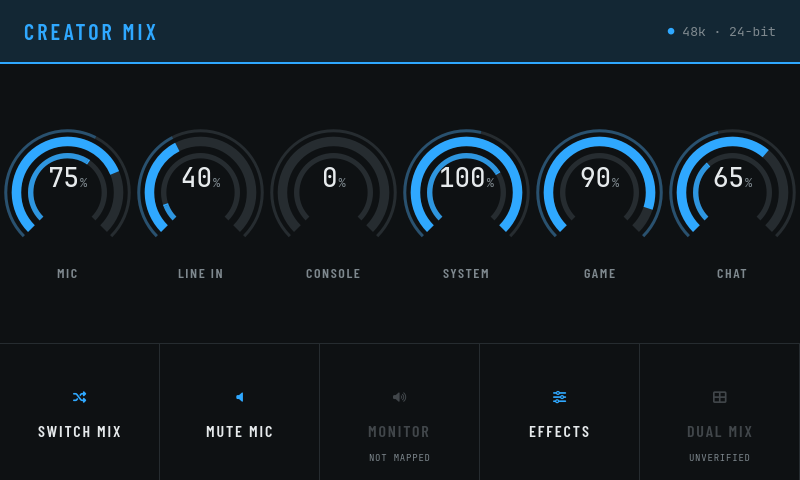
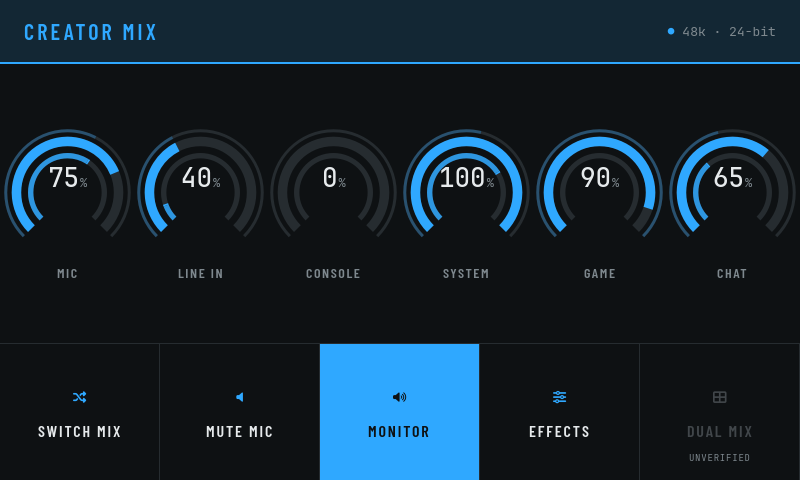
Monitor was never a missing register; it is the mic's creator-mix level
Captured from the vendor software, both directions: its monitor widget writes
0x27 -- the creator block's base, which is the Mic track -- to 0x14 for on and
0x00 for off, and sends 0x22 = 0x02 alongside, which is identical in both and so
is not the toggle.

That is the whole feature. Monitoring is whether the microphone is audible in the
mix you hear; turning it off leaves the audience block at 0x2e untouched, so the
stream still hears you. Which is what monitoring has always meant, and what the
deck's owner said the MIC knob push does -- the widget takes the same route.

So the driver could already do this and nobody knew. The panel's Monitor tile
stops being inert: it lights when the microphone is audible and toggles. Off
remembers the level it silenced so that on restores what was there rather than
coming back at full, which is the wrong way to be wrong with a microphone.

Two tiles were reserved-but-inert; one is left. Dual mix still is, because 0x21
also selects which rings light and which of the two it does is unsettled.

Changed region(s): [[0.375, 0.7188, 0.625, 1.0]]

diff --git a/src/gui/ScreenUI.qml b/src/gui/ScreenUI.qml
@@ -146,7 +146,8 @@ Rectangle {
             objectName: "monitorTile"
             width: root.width / 5; height: parent.height
             glyph: Theme.iconMonitor; label: "Monitor"; accent: root.accent
-            pending: true
+            active: ax310Device ? ax310Device.micMonitor : false
+            onActivated: if (ax310Device) ax310Device.setMicMonitor(!ax310Device.micMonitor)
         }
         ActionTile {
             // Named so a test can ask where this tile actually is.

diff --git a/src/app/DeviceBridge.hpp b/src/app/DeviceBridge.hpp
@@ -39,6 +39,7 @@ class DeviceBridge final: public QObject, public IDeviceListener
     Q_PROPERTY(int selectedMix READ selectedMix NOTIFY mixChanged)
     Q_PROPERTY(bool panelShowsEffects READ panelShowsEffects WRITE setPanelShowsEffects NOTIFY
                    panelShowsEffectsChanged)
+    Q_PROPERTY(bool micMonitor READ micMonitor NOTIFY levelChanged)
 
   public:
     /// Builds the seams the driver needs and injects them: a real USB transport,
@@ -147,6 +148,27 @@ class DeviceBridge final: public QObject, public IDeviceListener
 
     /// @param showing Whether the panel should show the effects.
     void setPanelShowsEffects(bool showing);
+
+    /// Whether the microphone is audible in the creator mix.
+    ///
+    /// That is all "monitor" is on this deck. Captured from the vendor software:
+    /// its monitor widget writes the microphone's level in the creator mix --
+    /// `0x27`, which is that block's base -- and nothing else. Turning it off
+    /// silences you in your own headphones and leaves the audience mix alone, so
+    /// the stream still hears you, which is exactly what monitoring means.
+    ///
+    /// There is no separate register, and there never was one to find.
+    ///
+    /// @return Whether the microphone's creator-mix level is above zero.
+    [[nodiscard]] bool micMonitor() const;
+
+    /// Turns monitoring on or off.
+    ///
+    /// Off remembers the level it silenced, so on restores what was there rather
+    /// than guessing at full.
+    ///
+    /// @param enabled Whether the microphone should be audible in the creator mix.
+    Q_INVOKABLE void setMicMonitor(bool enabled);
 
     /// Pushes one encoded frame to the deck's screen.
     /// @param jpeg The encoded frame.
@@ -260,6 +282,10 @@ class DeviceBridge final: public QObject, public IDeviceListener
 
     /// Which page the panel is on, shared by every view of it.
     bool _panelShowsEffects = false;
+
+    /// The microphone's creator-mix level before monitoring was turned off, so
+    /// turning it back on restores what was there.
+    int _monitorRestoreLevel = 100;
 
     std::atomic<bool> _isRunning { false };
     std::thread _worker;

diff --git a/src/app/GuiRender_test.cpp b/src/app/GuiRender_test.cpp
@@ -740,3 +740,48 @@ TEST_CASE("the desktop's preview of the deck can be operated", "[gui][render][to
     CHECK(harness.bridge.selectedMix() == 1);
 }
 #endif
+
+TEST_CASE("monitoring is the microphone's level in the creator mix", "[gui][monitor]")
+{
+    // Captured from the vendor software: its monitor widget writes 0x27 -- the
+    // creator block's base, which is the Mic track -- and nothing else. There is
+    // no separate register, so this is the whole feature.
+    RenderHarness harness;
+    harness.connectWithLevels({ 15, 8, 0, 20, 18, 13 }, { 12, 8, 0, 11, 20, 9 });
+
+    REQUIRE(harness.bridge.micMonitor());
+    REQUIRE(harness.bridge.levelPercent(0, 0) == 75);
+
+    harness.bridge.setMicMonitor(false);
+    CHECK_FALSE(harness.bridge.micMonitor());
+    CHECK(harness.bridge.levelPercent(0, 0) == 0);
+
+    // The audience still hears you: turning your own monitoring off is not a mute.
+    CHECK(harness.bridge.levelPercent(1, 0) == 60);
+
+    // And it comes back where it was, not at full.
+    harness.bridge.setMicMonitor(true);
+    CHECK(harness.bridge.micMonitor());
+    CHECK(harness.bridge.levelPercent(0, 0) == 75);
+}
+
+TEST_CASE("the panel's Monitor tile is operable now", "[gui][render][monitor]")
+{
+    RenderHarness harness;
+    harness.connectWithLevels({ 15, 8, 0, 20, 18, 13 }, { 12, 8, 0, 11, 20, 9 });
+
+    QQuickView view;
+    view.setResizeMode(QQuickView::SizeRootObjectToView);
+    view.rootContext()->setContextProperty("ax310Device", &harness.bridge);
+    view.resize(PanelWidth, PanelHeight);
+    view.setSource(QUrl("qrc:/qt/qml/AX310/App/gui/ScreenUI.qml"));
+    REQUIRE(view.status() == QQuickView::Ready);
+    view.show();
+
+    // It shipped inert, with "not mapped" under it, because the register was
+    // thought to be missing. It never was.
+    auto* const tile = view.rootObject()->findChild<QQuickItem*>("monitorTile");
+    REQUIRE(tile != nullptr);
+    CHECK_FALSE(tile->property("pending").toBool());
+    CHECK(tile->property("active").toBool());
+}

diff --git a/src/app/DeviceBridge.cpp b/src/app/DeviceBridge.cpp
@@ -293,6 +293,32 @@ int DeviceBridge::selectedMix() const noexcept
     return static_cast<int>(indexOf(_mix));
 }
 
+bool DeviceBridge::micMonitor() const
+{
+    return levelPercent(static_cast<int>(indexOf(MixId::Creator)),
+                        static_cast<int>(indexOf(KnobId::Mic)))
+           > 0;
+}
+
+void DeviceBridge::setMicMonitor(bool enabled)
+{
+    auto const creatorMix = static_cast<int>(indexOf(MixId::Creator));
+    auto const micTrack = static_cast<int>(indexOf(KnobId::Mic));
+    auto const current = levelPercent(creatorMix, micTrack);
+
+    if (!enabled)
+    {
+        // Remember what is being silenced. Restoring to full instead would be
+        // louder than what the person had, which is the wrong way to be wrong.
+        if (current > 0)
+            _monitorRestoreLevel = current;
+        setLevel(creatorMix, micTrack, 0);
+        return;
+    }
+
+    setLevel(creatorMix, micTrack, _monitorRestoreLevel > 0 ? _monitorRestoreLevel : 100);
+}
+
 bool DeviceBridge::panelShowsEffects() const noexcept
 {
     return _panelShowsEffects;

diff --git a/README.md b/README.md
@@ -60,12 +60,17 @@ per track without switching; the inner arc is the live meter with a peak-hold ti
 Blue and orange are the deck's own LED colours for the creator and audience mixes —
 they say which mix you are in, rather than being decoration.
 
-Two tiles are present but inert, and say so rather than looking operable.
-**Monitor**'s register has not been found. **Dual mix**'s has — `0x21` takes
-`0x80` for Single and `0x00` for Dual — but the same address also selects which
-knob rings light, and which of the two it is doing has never been settled on the
-hardware. Holding both slots means the row is not re-cut when they are, so the
-muscle memory built now stays correct.
+One tile is present but inert, and says so rather than looking operable. **Dual
+mix**'s register is known — `0x21` takes `0x80` for Single and `0x00` for Dual —
+but the same address also selects which knob rings light, and which of the two it
+is doing has never been settled on the hardware. Holding the slot means the row is
+not re-cut when it is.
+
+**Monitor** was inert too, until a capture showed there was never a register to
+find: the vendor's monitor widget writes the microphone's level in the creator
+mix and nothing else. Turning it off silences you in your own headphones and
+leaves the audience mix alone, so the stream still hears you — which is exactly
+what monitoring means, and something the driver could already do.
 
 The effects page is built from the driver's parameter table, not written out in
 QML, so a parameter located later becomes one row in `protocol::Parameters` and
@@ -189,7 +194,7 @@ the Qt-free rule: `src/ax310` links hidapi and nothing else.
 
 ## Testing
 
-146 tests, no hardware required.
+151 tests, no hardware required.
 
 Driver tests run against a scripted `FakeHidTransport`. The **rendering tests**
 drive real QML through the software scene graph with the offscreen platform, so

diff --git a/docs/todo.md b/docs/todo.md
@@ -145,14 +145,12 @@ captures name them.
   what hid it was a decoder that read only the first pair — the microphone, which
   hears whatever is played into the room and so appeared to answer for every
   track in turn.
-- **The mic monitoring toggle — and whether it exists as a command.** The deck's
-  owner reports that Creator Central's monitor on/off is a physical click of the
-  MIC knob, which takes the mic level to 0 and back; that is a knob push the deck
-  reports to the host, not something the host sends. If that is all "Monitor" is,
-  the driver already has it — the knob-push path — and the panel's inert Monitor
-  tile is reserved for a control that does not need a register. Worth settling
-  before capturing anything: what the manual's "Monitor" widget does that the
-  knob push does not.
+- ~~**The mic monitoring toggle.**~~ There was never a register. Captured: the
+  vendor's monitor widget writes `0x27` — the creator block's Mic slot — to full
+  or to zero, and sends `0x22 = 0x02` alongside, which does not change between the
+  two. So monitoring is the microphone's level in the mix you hear, the audience
+  mix is untouched, and the driver could already do it. The panel's Monitor tile
+  is live.
 - ~~**Turn the IPS panel off.**~~ Captured: tapping the vendor's panel-off widget
   sends `01 0a ff`, once, and an idle capture of the same length sends nothing at
   all. `ax310_probe --panel-off` replays it. **Not yet confirmed on the hardware**

diff --git a/docs/capabilities.md b/docs/capabilities.md
@@ -156,7 +156,7 @@ deck's own tracks behind a "show virtual devices" toggle.
 | Per-track volume | `0x27` and `0x2e` | ✅ two contiguous six-byte blocks, one per mix, `base + track`; all twelve read and written |
 | Creator ↔ Audience switch | `0x15` inside the `0x1d` fence | ✅ driven, both directions |
 | Single ↔ Dual Mix | `0x21` (`0x80` single / `0x00` dual), `0x22` | ◐ captured, **not driven** — `0x21` also selects which rings light and which it is doing is unsettled |
-| Mic monitoring on/off | — | **may not be a host command at all**: the deck's owner reports Creator Central's monitor on/off is a physical click of the MIC knob, taking the level to 0 and back. What the manual's "Monitor" widget does beyond that is unestablished |
+| Mic monitoring on/off | `0x27`, the creator block's Mic slot | ✅ captured and driven — the vendor's widget writes the microphone's creator-mix level and nothing else; there was never a separate register |
 | Microphone type | host command | ❌ — a three-way selector, not a phantom-power toggle: XLR (+0 V), XLR + phantom (+48 V), 6.3 mm (+3 V) |
 | Mic gain | `0x1f`, with `0x23` alongside | ◐ one capture: a gain-up drag sent `0x1f = 0x38` and `0x23 = 0x00`; the range and what `0x23` does are unknown |
 | Reverb | `0x85` enable, `0x94` body | ✅ five sliders driven from both screens |
